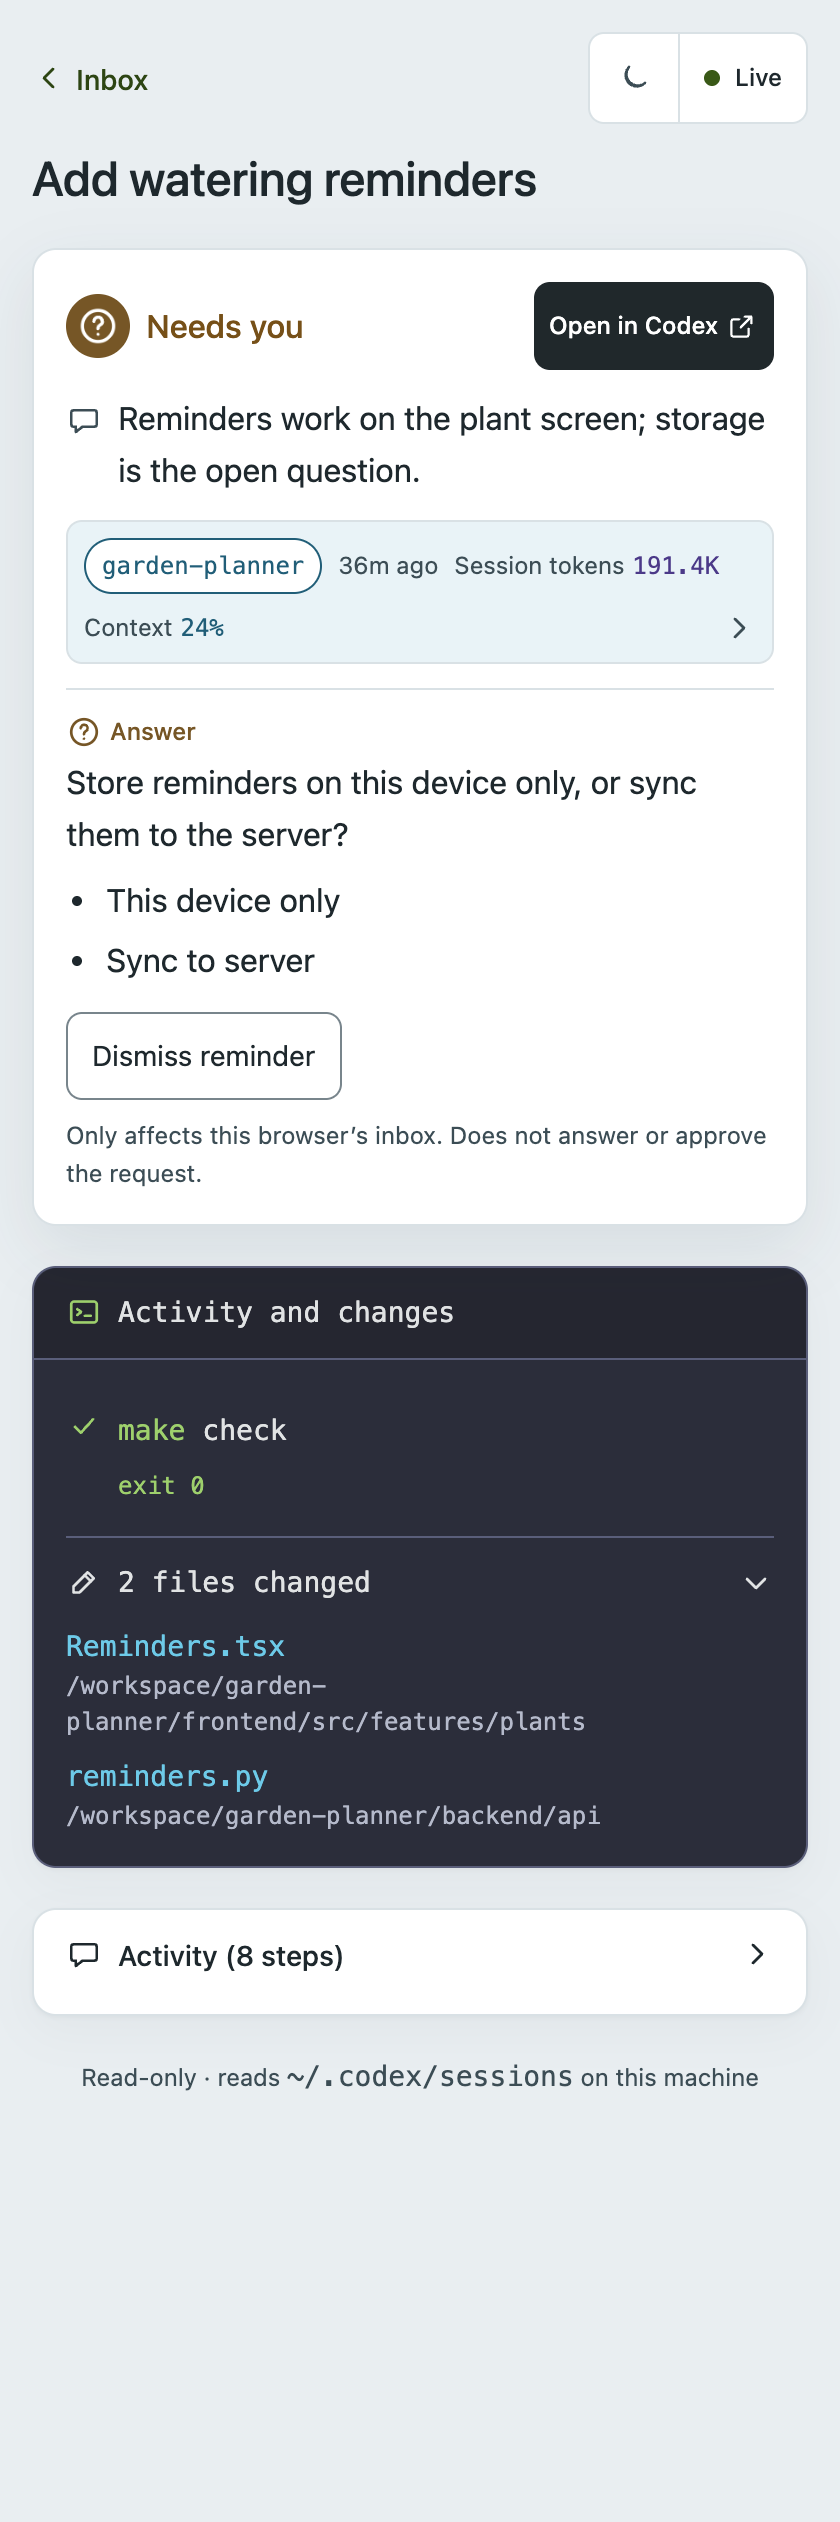
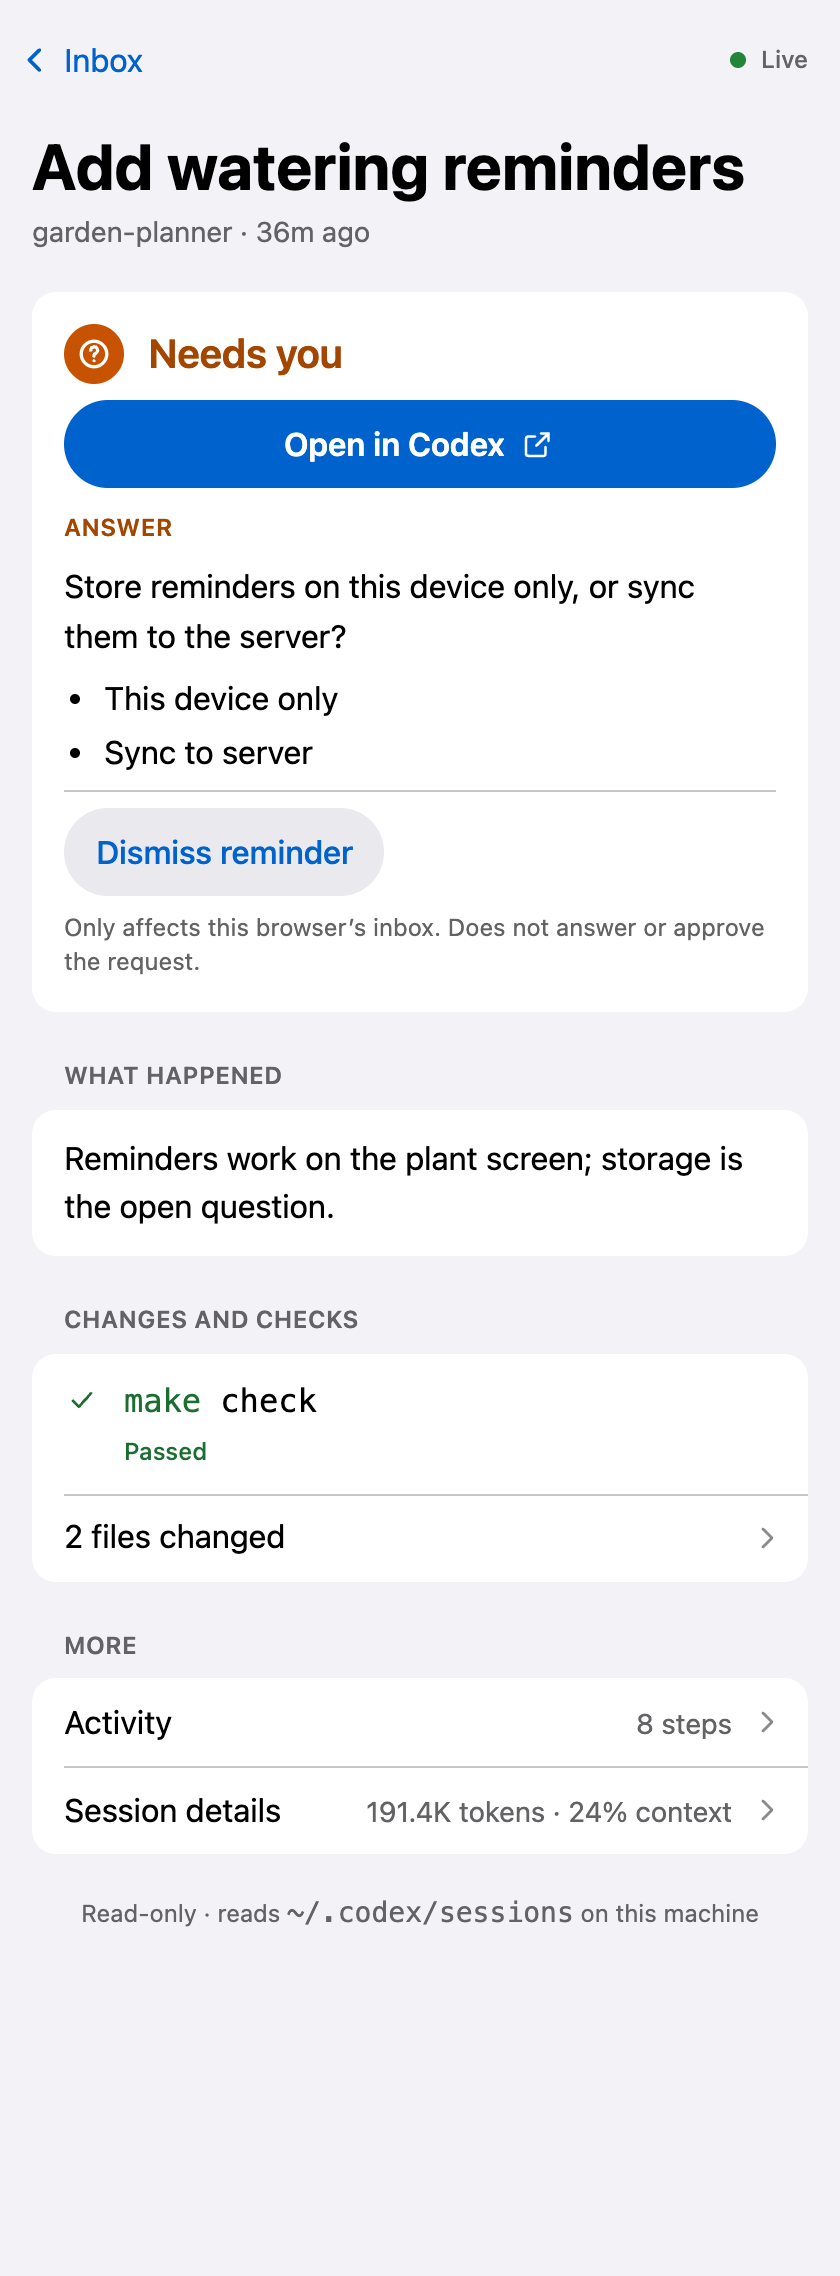
README: describe the summary filters and sectioned inbox; refresh screenshots

diff --git a/README.md b/README.md
@@ -11,7 +11,7 @@
 [Start the companion](#start-the-companion) · [Commands](#commands-you-will-use) ·
 [How it works](#how-it-works) · [Guides](#guides)
 
-<img src="docs/images/inbox.png" width="260" alt="Inbox with chats grouped by project: two need you, one is working, one has a new result">
+<img src="docs/images/inbox.png" width="260" alt="Inbox with a status summary, then chats that need you, are working, and have new results">
 <img src="docs/images/chat-waiting.png" width="260" alt="Chat waiting for an answer, with the question, its options, and the checks that ran">
 <img src="docs/images/chat-done.png" width="260" alt="Finished chat with its outcome, a failed then passing test run, and an agent decision">
 
@@ -81,12 +81,12 @@ through `uv`. If the repo lives somewhere other than `~/dev/ai-companion-app`, s
 Codex writes every chat to `~/.codex/sessions/YYYY/MM/DD/rollout-<timestamp>-<thread_id>.jsonl`.
 The companion tails those files; it never writes to `~/.codex`.
 
-- **Inbox.** Chats are grouped by project in collapsible sections, with an overview of chats that
-  need you, chats still working, and unseen results from the last 24 hours. It covers the 30 most
-  recently updated chats, plus older chats from the last 14 days that still need you, and hides
-  sub-agent chats. Project previews keep active chats and recorded
-  next actions visible; older history sits behind a disclosure. Filtered chat links keep their
-  return scope.
+- **Inbox.** A summary at the top counts all chats, chats that need you, chats still working, and
+  unseen results from the last 24 hours; each count is also a filter. Below it, chats are listed in
+  sections in that order, then Earlier. A section with more than five chats ends with **Show all**.
+  It covers the 30 most recently updated chats, plus older chats from the last 14 days that still
+  need you, and hides sub-agent chats. Filtered chat links keep their return scope. The page
+  follows the system light or dark appearance.
 - **Project labels.** The session's working directory is matched to project roots in Codex's local
   state database. When that is unavailable, the label is the working-directory name.
 - **Chat page.** The latest turn's outcome and next step, the files it changed, the checks it ran
@@ -103,7 +103,7 @@ The companion tails those files; it never writes to `~/.codex`.
   browser, and **Restore reminder** brings it back. A new recorded request resurfaces on its own.
   Dismissals sync between tabs on the same origin and never answer a question or approve work in
   Codex. If browser storage fails, the reminder stays active; clearing site data clears dismissals.
-- **Session info.** The expandable info bar shows the latest reported token totals and last-request
+- **Session info.** The Session details row shows the latest reported token totals and last-request
   usage from `token_count` records, and model and effort from `turn_context`. Session metadata
   supplies the provider, recorded Git branch, client version, and working directory. Cached input
   and reasoning are subsets of input and output, not extra totals. Missing counts stay unknown.
